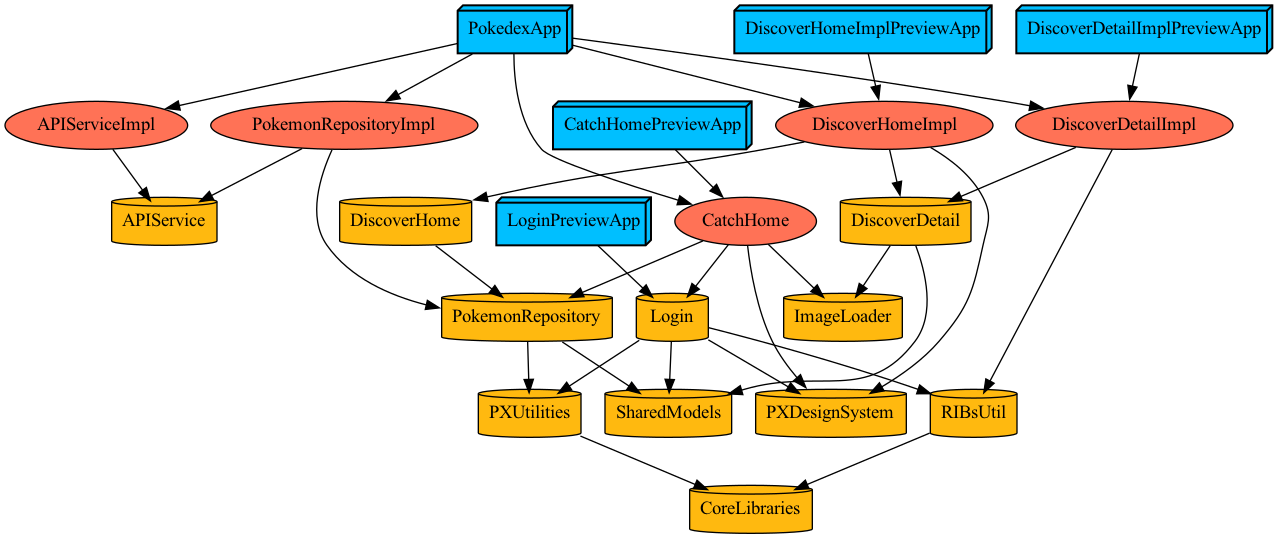
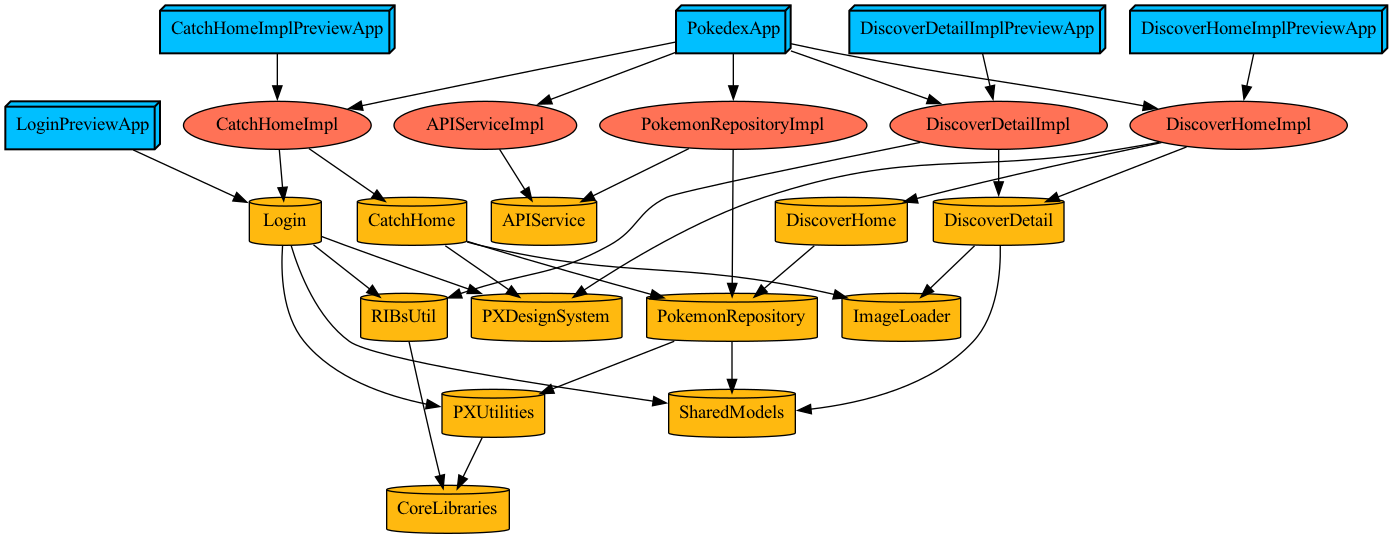
refactor: CatchHome 모듈 인터페이스 분리

diff --git a/Modules/PokedexApp/Sources/AppRoot/AppRootBuilder.swift b/Modules/PokedexApp/Sources/AppRoot/AppRootBuilder.swift
@@ -17,10 +17,12 @@ import RxSwift
 import SharedModels
 
 protocol AppRootDependency: Dependency {
+  var catchHomeBuilder: CatchHomeBuildable { get }
   var discoverDetailBuilder: DiscoverDetailBuildable { get }
   var pokemonRepository: PokemonRepository { get }
   var imageLoader: ImageLoader { get }
   var userSubject: BehaviorSubject<User?> { get }
+  var user: ReadOnlyBehaviorSubject<User?> { get }
 }
 
 final class AppRootComponent:
@@ -28,13 +30,14 @@ final class AppRootComponent:
   AppRootInteractorDependency,
   DiscoverHomeDependency,
   CatchHomeDependency {
+  var catchHomeBuilder: CatchHomeBuildable { dependency.catchHomeBuilder }
   var discoverDetailBuilder: DiscoverDetailBuildable { dependency.discoverDetailBuilder }
   private let rootViewController: ViewControllable
   var pokemonRepository: PokemonRepository { dependency.pokemonRepository }
   var imageLoader: ImageLoader { dependency.imageLoader }
 
   var userSubject: BehaviorSubject<User?> { dependency.userSubject }
-  var user: ReadOnlyBehaviorSubject<User?> { ReadOnlyBehaviorSubject(for: dependency.userSubject) }
+  var user: ReadOnlyBehaviorSubject<User?> { dependency.user }
 
   init(
     dependency: AppRootDependency,
@@ -69,14 +72,13 @@ final class AppRootBuilder: Builder<AppRootDependency>, AppRootBuildable {
     )
 
     let discoverHomeBuilder = DiscoverHomeBuilder(dependency: component)
-    let catchHomeBuilder = CatchHomeBuilder(dependency: component)
 
     let router = AppRootRouter(
       interactor: interactor,
       viewController: tabBarViewController,
       imageLoader: component.imageLoader,
       discoverHomeBuilder: discoverHomeBuilder,
-      catchHomeBuilder: catchHomeBuilder
+      catchHomeBuilder: component.catchHomeBuilder
     )
 
     return (router, interactor)

diff --git a/Modules/PokedexApp/Sources/Application/AppComponent.swift b/Modules/PokedexApp/Sources/Application/AppComponent.swift
@@ -7,17 +7,23 @@
 
 import APIService
 import APIServiceImpl
+import CatchHome
+import CatchHomeImpl
 import DiscoverDetail
 import DiscoverDetailImpl
 import ImageLoader
 import PokemonRepository
 import PokemonRepositoryImpl
+import PXUtilities
 import RIBs
 import RxSwift
 import SharedModels
 
-final class AppComponent: Component<EmptyDependency>, AppRootDependency, DiscoverDetailDependency {
+final class AppComponent: Component<EmptyDependency>, AppRootDependency, DiscoverDetailDependency, CatchHomeDependency {
 
+  lazy var catchHomeBuilder: CatchHomeBuildable = {
+    return CatchHomeBuilder(dependency: self)
+  }()
   lazy var discoverDetailBuilder: DiscoverDetailBuildable = {
     return DiscoverDetailBuilder(dependency: self)
   }()
@@ -32,6 +38,7 @@ final class AppComponent: Component<EmptyDependency>, AppRootDependency, Discove
     cache: MemoryCache()
   )
   let userSubject = BehaviorSubject<User?>(value: nil)
+  var user: ReadOnlyBehaviorSubject<User?> { ReadOnlyBehaviorSubject(for: userSubject) }
 
   init() {
     super.init(dependency: EmptyComponent())

diff --git a/Modules/Catch/Project.swift b/Modules/Catch/Project.swift
@@ -6,13 +6,21 @@ let project: Project = .feature(
   targetConfigurations: [
     TargetConfiguration(
       name: "CatchHome",
+      targetTypes: [],
+      productType: .framework,
+      dependencies: [
+        .project(target: "ImageLoader", path: .relativeToRoot("Modules/Platform")),
+        .project(target: "PokemonRepository", path: .relativeToRoot("Modules/Platform")),
+        .project(target: "PXDesignSystem", path: .relativeToRoot("Modules/PXDesignSystem")),
+      ]
+    ),
+    TargetConfiguration(
+      name: "CatchHomeImpl",
       targetTypes: [.unitTest, .preview],
       productType: .staticLibrary,
       dependencies: [
-        .project(target: "ImageLoader", path: .relativeToRoot("Modules/Platform")),
+        .target(name: "CatchHome"),
         .project(target: "Login", path: .relativeToRoot("Modules/Platform")),
-        .project(target: "PokemonRepository", path: .relativeToRoot("Modules/Platform")),
-        .project(target: "PXDesignSystem", path: .relativeToRoot("Modules/PXDesignSystem")),
       ]
     ),
   ],

diff --git a/Modules/Catch/CatchHomeImpl/Sources/CatchHomeBuilder.swift b/Modules/Catch/CatchHomeImpl/Sources/CatchHomeBuilder.swift
@@ -5,18 +5,13 @@
 //  Created by Geonhee on 2023/03/13.
 //
 
+import CatchHome
 import ImageLoader
 import Login
 import PokemonRepository
 import PXUtilities
 import RIBs
 import SharedModels
-
-public protocol CatchHomeDependency: Dependency {
-  var pokemonRepository: PokemonRepository { get }
-  var imageLoader: ImageLoader { get }
-  var user: ReadOnlyBehaviorSubject<User?> { get }
-}
 
 final class CatchHomeComponent:
   Component<CatchHomeDependency>,
@@ -28,10 +23,6 @@ final class CatchHomeComponent:
 }
 
 // MARK: - Builder
-
-public protocol CatchHomeBuildable: Buildable {
-  func build(withListener listener: CatchHomeListener) -> ViewableRouting
-}
 
 public final class CatchHomeBuilder: Builder<CatchHomeDependency>, CatchHomeBuildable {
 

diff --git a/Modules/Catch/CatchHome/Sources/CatchHomeInterface.swift b/Modules/Catch/CatchHome/Sources/CatchHomeInterface.swift
@@ -1,0 +1,26 @@
+//
+//  CatchHomeBuilder.swift
+//  CatchHome
+//
+//  Created by Geonhee on 2023/03/13.
+//
+
+import ImageLoader
+import PokemonRepository
+import PXUtilities
+import RIBs
+import SharedModels
+
+public protocol CatchHomeDependency: Dependency {
+  var pokemonRepository: PokemonRepository { get }
+  var imageLoader: ImageLoader { get }
+  var user: ReadOnlyBehaviorSubject<User?> { get }
+}
+
+public protocol CatchHomeBuildable: Buildable {
+  func build(withListener listener: CatchHomeListener) -> ViewableRouting
+}
+
+public protocol CatchHomeListener: AnyObject {
+  func loginDidTapLoginButton(with user: User)
+}

diff --git a/Modules/PokedexApp/Project.swift b/Modules/PokedexApp/Project.swift
@@ -4,7 +4,7 @@ import ProjectDescriptionHelpers
 let project: Project = .app(
   name: "PokedexApp",
   dependencies: [
-    .project(target: "CatchHome", path: .relativeToRoot("Modules/Catch")),
+    .project(target: "CatchHomeImpl", path: .relativeToRoot("Modules/Catch")),
     .project(target: "DiscoverHomeImpl", path: .relativeToRoot("Modules/Discover")),
     .project(target: "DiscoverDetailImpl", path: .relativeToRoot("Modules/Discover")),
     .project(target: "APIServiceImpl", path: .relativeToRoot("Modules/Platform")),

diff --git a/Modules/Catch/CatchHomeImpl/Sources/CatchHomeInteractor.swift b/Modules/Catch/CatchHomeImpl/Sources/CatchHomeInteractor.swift
@@ -5,6 +5,7 @@
 //  Created by Geonhee on 2023/03/13.
 //
 
+import CatchHome
 import PokemonRepository
 import PXUtilities
 import RIBs
@@ -22,10 +23,6 @@ protocol CatchHomePresentable: Presentable {
   func layoutLoggedIn()
   func layoutLoggedOut()
   func updatePokemonCardView(with pokemon: Pokemon)
-}
-
-public protocol CatchHomeListener: AnyObject {
-  func loginDidTapLoginButton(with user: User)
 }
 
 protocol CatchHomeInteractorDependency {

diff --git a/Modules/Catch/CatchHomeImpl/Sources/CatchHomeRouter.swift b/Modules/Catch/CatchHomeImpl/Sources/CatchHomeRouter.swift
@@ -5,6 +5,7 @@
 //  Created by Geonhee on 2023/03/13.
 //
 
+import CatchHome
 import Login
 import RIBs
 import RIBsUtil
